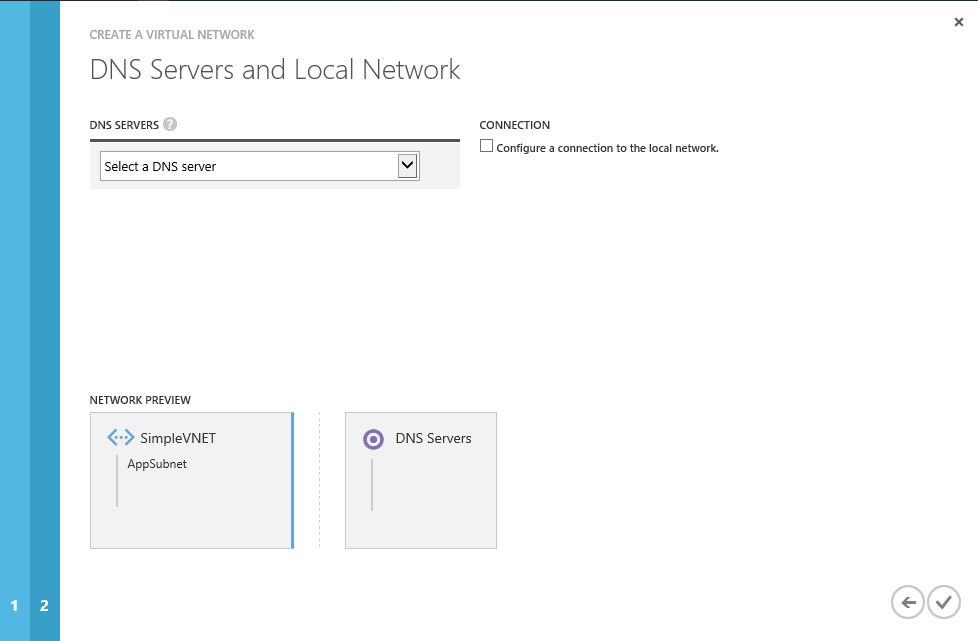
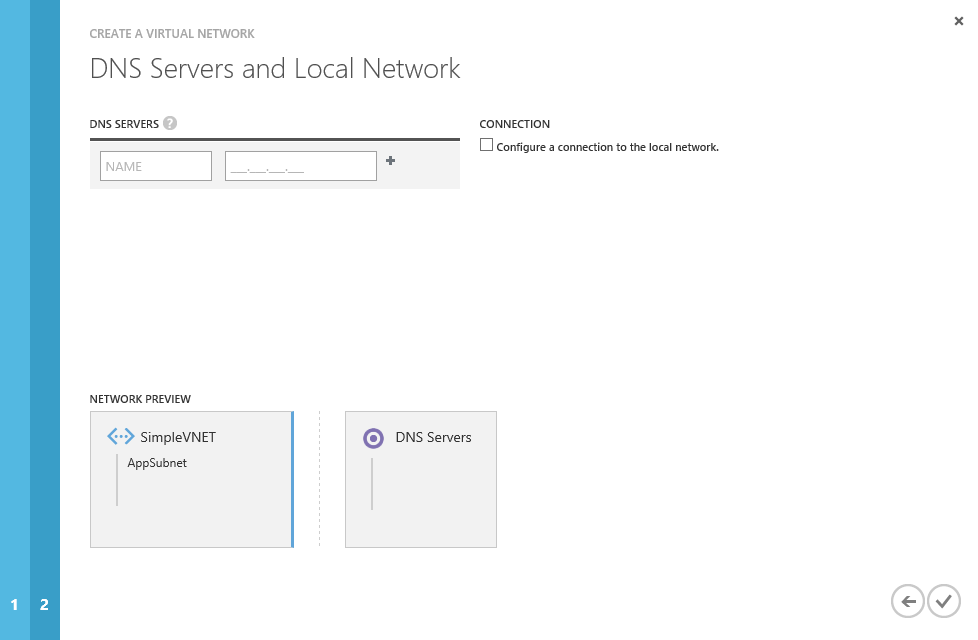
Added -AdminUserName parameter in Add-AzureProvisioningConfig cmdlet. Updated screenshot due to change in portal. Fixed minor wording issues in document.

diff --git a/Demo.md b/Demo.md
@@ -25,7 +25,7 @@ In this demonstration you will walk through the process of deploying a domain co
 
 In order to execute this demo you need to set up your environment.
 
-1. Download, install and configure the Windows Azure PowerShell cmdlets. Instructions on how to configuration the cmdlets with your subscription can be found here: http://msdn.microsoft.com/en-us/library/windowsazure/jj554332.aspx
+1. Download, install and configure the Windows Azure PowerShell cmdlets. Instructions on how to configure the cmdlets with your subscription can be found here: http://msdn.microsoft.com/en-us/library/windowsazure/jj554332.aspx
 
 1. Download and install the latest node.js library from: http://nodejs.org 
 
@@ -63,7 +63,7 @@ In order to execute this demo you need to set up your environment.
 <a name="Demo" />
 ## Demo ##
 
-1. Configure the demo virtual network that the demo virtual machines will be deployed to. 
+1. Configure the demo virtual network where the demo virtual machines will be deployed to. 
 
 1. Create a simple virtual network with an affinity group for it in the region where your cloud services will be hosted and specify the affinity group along with a single subnet network configuration.
 
@@ -105,10 +105,10 @@ In order to execute this demo you need to set up your environment.
 	Get-AzureVMImage | ft imagename
 	````
 
-1. Paste in the following script to create a member server joined VM. Update the $dcip variable to use the IP address of the domain controller, the Config.Azure.xml file path for the $xml variable and the $image variable with a Windows Server image name before running.
+1. Paste in the following script to create a member server joined VM. Update the $dcip variable to use the IP address of the domain controller, the $adminUserName variable with a user name of your choice, the Config.Azure.xml file path for the $xml variable and the $image variable with a Windows Server image name before running.
 
 	````PowerShell
-	$dcip = '[IP ADDRESS OF DOMAIN CONTROLLER]'
+	$dcip = '[IP-ADDRESS-OF-DOMAIN-CONTROLLER]'
 	[xml]$xml = Get-Content '[AZURE-CONFIGURATION-FILE-PATH]'
 	$image = 'a699494373c04fc0bc8f2bb1389d6106__Windows-Server-2012-Datacenter-201302.01-en.us-30GB.vhd'
 
@@ -120,10 +120,11 @@ In order to execute this demo you need to set up your environment.
 	$pass = 'pass@word1'
 	$domjoin = 'fabrikam.com'
 	$domuser = 'administrator'
+	$adminUserName = '[YOUR-USER-NAME]'
 
 	$domVM = New-AzureVMConfig -Name 'ad-ms1' -InstanceSize Small -ImageName $image |      
 		
-			Add-AzureProvisioningConfig -WindowsDomain -JoinDomain $domjoin -Domain $dom -DomainPassword $pass -Password $pass -DomainUserName $domuser -MachineObjectOU $ou |
+			Add-AzureProvisioningConfig -WindowsDomain -JoinDomain $domjoin -Domain $dom -DomainPassword $pass -AdminUserName $adminUserName -Password $pass -DomainUserName $domuser -MachineObjectOU $ou |
 						 Set-AzureSubnet -SubnetNames $subnet
 
 
